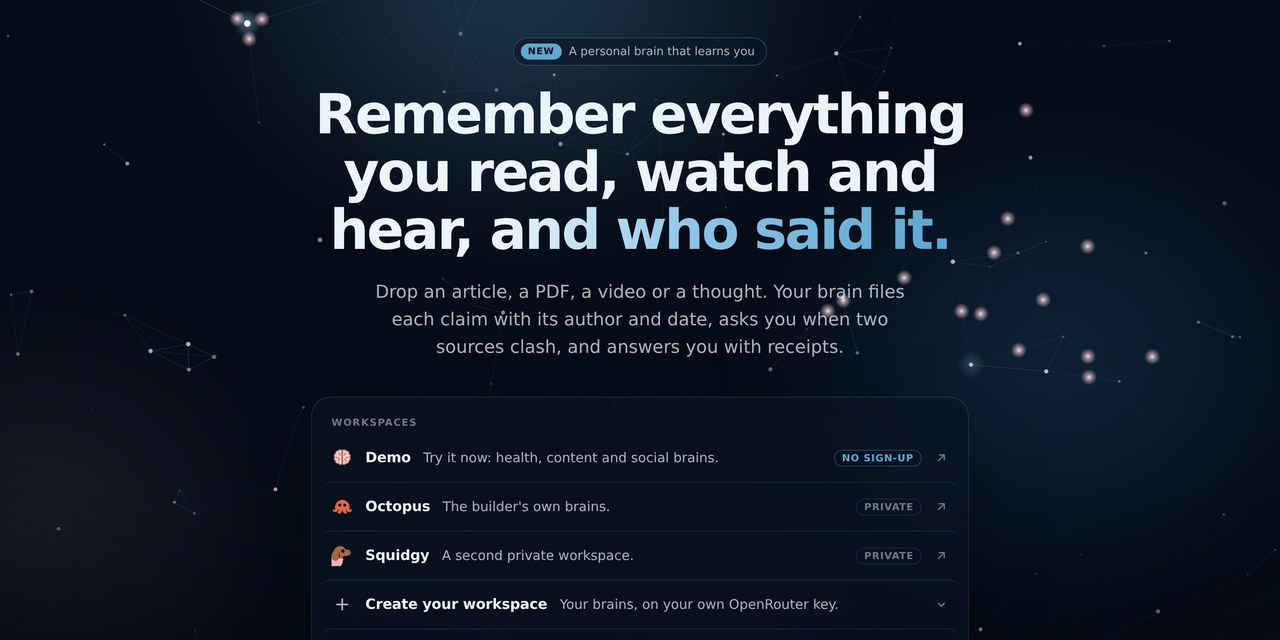
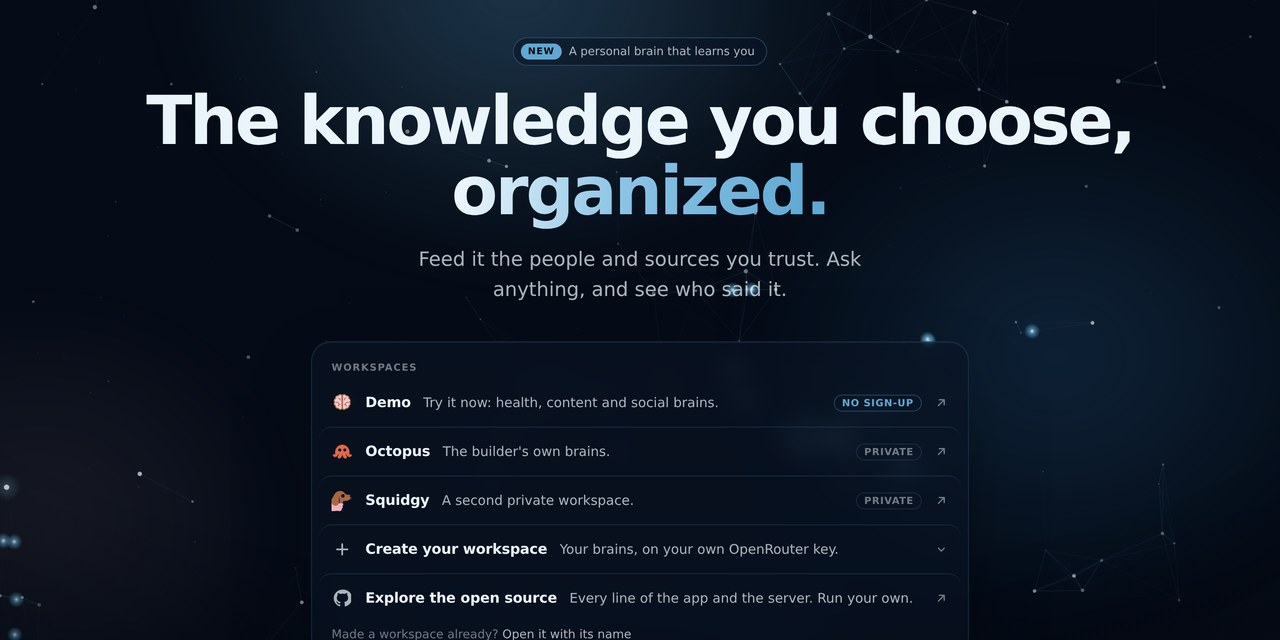
A shorter, sharper headline: the knowledge you choose, organized
The headline drops to five words on two lines, and the line under it to
one sentence that talks to you: feed it the people and sources you trust,
ask anything, and see who said it. Title, link preview, README and
screenshots follow.

Claude-Session: https://claude.ai/code/session_01NRWPtT3uQhafrf1yBXPVRY

diff --git a/app/index.html b/app/index.html
@@ -3,11 +3,11 @@
 <head>
 <meta charset="utf-8">
 <meta name="viewport" content="width=device-width, initial-scale=1, viewport-fit=cover">
-<title>Brain: remember everything you read, and who said it</title>
-<meta name="description" content="Drop an article, a PDF, a video or a thought. Brain files every claim with its author and date, flags what contradicts what you know, and answers from your sources only.">
+<title>Brain: the knowledge you choose, organized</title>
+<meta name="description" content="Feed it the people and sources you trust. Ask anything, and see who said it. Every claim filed with its author and date.">
 <meta name="theme-color" content="#050b16">
-<meta property="og:title" content="Brain: remember everything you read, and who said it">
-<meta property="og:description" content="Every claim filed with its author and date. Contradictions settled by you. Answers in 9 languages.">
+<meta property="og:title" content="Brain: the knowledge you choose, organized">
+<meta property="og:description" content="Feed it the people and sources you trust. Ask anything, and see who said it.">
 <meta property="og:image" content="https://brain.jeremylasne.com/og.jpg">
 <meta property="og:image:width" content="1280">
 <meta property="og:image:height" content="640">
@@ -98,11 +98,12 @@
     border:1px solid var(--line-2); background:rgba(10,20,36,.55); font-size:13px; color:var(--ice-70); backdrop-filter:blur(8px); -webkit-backdrop-filter:blur(8px); }
   .kicker b{ font-size:10.5px; font-weight:700; letter-spacing:.08em; text-transform:uppercase; color:var(--ink); background:var(--blue);
     border-radius:999px; padding:3px 8px; }
-  .hero h1{ max-width:980px; font-size:clamp(34px, 5.6vw, 62px); line-height:1.05; font-weight:650; letter-spacing:-.04em; text-wrap:balance; }
+  .hero h1{ max-width:1120px; font-size:clamp(40px, 5.9vw, 76px); line-height:1.04; font-weight:650; letter-spacing:-.04em; }
+  @media (min-width:760px){ .hero h1 .nw{ white-space:nowrap; } }
   .hero h1 em{ font-style:normal;
     background:linear-gradient(100deg, var(--ice) 5%, var(--blue-2) 45%, var(--blue) 95%);
     -webkit-background-clip:text; background-clip:text; color:transparent; }
-  .hero .sub{ margin-top:22px; max-width:640px; font-size:clamp(17px, 2vw, 20px); line-height:1.55; color:var(--ice-70); text-wrap:pretty; }
+  .hero .sub{ margin-top:22px; max-width:560px; font-size:clamp(18px, 2.1vw, 22px); line-height:1.55; color:var(--ice-70); text-wrap:pretty; }
 
   /* The workspaces, in the list style of jeremylasne.com. */
   .spaces{ width:100%; max-width:740px; margin-top:40px; text-align:left; padding:10px 22px 12px; border-radius:22px;
@@ -460,9 +461,8 @@
   <main>
     <section class="hero" id="top">
       <a class="kicker reveal" href="#inside"><b>New</b>A personal brain that learns you</a>
-      <h1 class="reveal" style="--d:80">Remember everything you read, watch and hear, <em>and who said it.</em></h1>
-      <p class="sub reveal" style="--d:160">Drop an article, a PDF, a video or a thought. Your brain files each claim with its author and date,
-        asks you when two sources clash, and answers you with receipts.</p>
+      <h1 class="reveal" style="--d:80"><span class="nw">The knowledge you choose,</span><br> <em>organized.</em></h1>
+      <p class="sub reveal" style="--d:160">Feed it the people and sources you trust. Ask anything, and see who said it.</p>
 
       <section class="spaces reveal" style="--d:260" id="start" aria-labelledby="spacesH">
         <h2 class="tiny" id="spacesH">Workspaces</h2>

diff --git a/README.md b/README.md
@@ -4,10 +4,9 @@
 
 # Brain
 
-**Remember everything you read, watch and hear, and who said it.**
+**The knowledge you choose, organized.**
 
-Drop an article, a PDF, a video or a thought. Your brain files each claim with its author and date,<br>
-asks you when two sources clash, and answers you with receipts.
+Feed it the people and sources you trust. Ask anything, and see who said it.
 
 [**Open the live demo**](https://brain.jeremylasne.com) &nbsp;·&nbsp; [How it works](#how-it-works) &nbsp;·&nbsp; [Run your own](#run-your-own)
 
